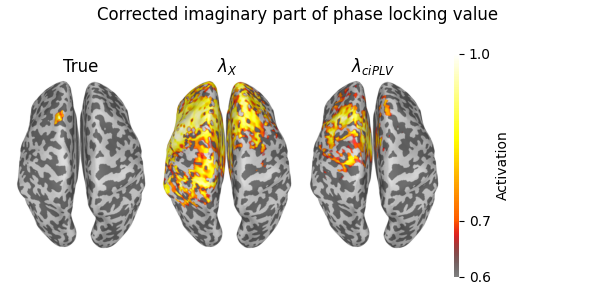
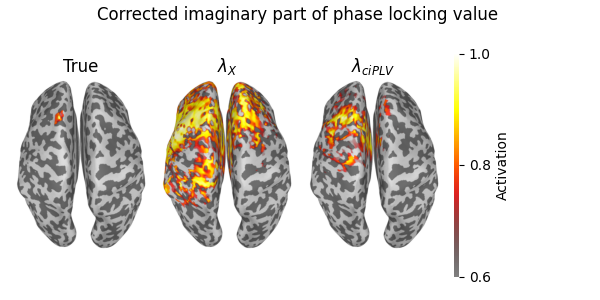
Make install

diff --git a/searchindex.js b/searchindex.js
@@ -1,1 +1,1 @@
[2 lines of base64/hex data omitted]

diff --git a/auto_paper_results/plot_illustrative_example.html b/auto_paper_results/plot_illustrative_example.html
@@ -269,7 +269,7 @@ in the paper</p>
 <span class="n">subject_dir</span> <span class="o">=</span> <span class="n">op</span><span class="o">.</span><span class="n">join</span><span class="p">(</span><span class="n">mne</span><span class="o">.</span><span class="n">datasets</span><span class="o">.</span><span class="n">sample</span><span class="o">.</span><span class="n">data_path</span><span class="p">(),</span> <span class="s1">&#39;subjects&#39;</span><span class="p">)</span>
 <span class="n">subject</span> <span class="o">=</span> <span class="s1">&#39;sample&#39;</span>
 
-<span class="n">clim</span> <span class="o">=</span> <span class="p">{</span><span class="s1">&#39;kind&#39;</span><span class="p">:</span> <span class="s1">&#39;value&#39;</span><span class="p">,</span> <span class="s1">&#39;lims&#39;</span><span class="p">:</span> <span class="p">[</span><span class="mf">0.5</span><span class="p">,</span> <span class="mf">0.6</span><span class="p">,</span> <span class="mi">1</span><span class="p">]}</span>
+<span class="n">clim</span> <span class="o">=</span> <span class="p">{</span><span class="s1">&#39;kind&#39;</span><span class="p">:</span> <span class="s1">&#39;value&#39;</span><span class="p">,</span> <span class="s1">&#39;lims&#39;</span><span class="p">:</span> <span class="p">[</span><span class="mf">0.5</span><span class="p">,</span> <span class="mf">0.75</span><span class="p">,</span> <span class="mi">1</span><span class="p">]}</span>
 <span class="n">roll</span> <span class="o">=</span> <span class="mi">0</span>
 
 <span class="n">views</span> <span class="o">=</span> <span class="s1">&#39;axial&#39;</span>
@@ -357,12 +357,15 @@ in the paper</p>
 <span class="n">plt</span><span class="o">.</span><span class="n">tight_layout</span><span class="p">()</span>
 </pre></div>
 </div>
-<img src="../_images/sphx_glr_plot_illustrative_example_001.png" srcset="../_images/sphx_glr_plot_illustrative_example_001.png" alt="Neural activity, True, $\lambda_{{X}}$, $\lambda_{{CPS}}$, $\lambda_{{wPLI}}$" class = "sphx-glr-single-img"/><p>Plot cross-power spectrum</p>
+<img src="../_images/sphx_glr_plot_illustrative_example_001.png" srcset="../_images/sphx_glr_plot_illustrative_example_001.png" alt="Neural activity, True, $\lambda_{{X}}$, $\lambda_{{CPS}}$, $\lambda_{{wPLI}}$" class = "sphx-glr-single-img"/><div class="sphx-glr-script-out highlight-none notranslate"><div class="highlight"><pre><span></span>Using pyvistaqt 3d backend.
+</pre></div>
+</div>
+<p>Plot cross-power spectrum</p>
 <div class="highlight-default notranslate"><div class="highlight"><pre><span></span><span class="n">cps_true</span> <span class="o">=</span> <span class="n">connectivity</span><span class="p">[</span><span class="s1">&#39;conn_true&#39;</span><span class="p">][:,</span> <span class="p">:,</span> <span class="mi">0</span><span class="p">]</span>
 <span class="n">cps_lam_cps</span> <span class="o">=</span> <span class="n">connectivity</span><span class="p">[</span><span class="s1">&#39;conn_lamC&#39;</span><span class="p">][:,</span> <span class="p">:,</span> <span class="mi">0</span><span class="p">]</span>
 <span class="n">cps_lamX</span> <span class="o">=</span> <span class="n">connectivity</span><span class="p">[</span><span class="s1">&#39;conn_lamX&#39;</span><span class="p">][:,</span> <span class="p">:,</span> <span class="mi">0</span><span class="p">]</span>
 
-<span class="n">clim</span> <span class="o">=</span> <span class="p">{</span><span class="s1">&#39;kind&#39;</span><span class="p">:</span> <span class="s1">&#39;value&#39;</span><span class="p">,</span> <span class="s1">&#39;lims&#39;</span><span class="p">:</span> <span class="p">[</span><span class="mf">0.20</span><span class="p">,</span> <span class="mf">0.25</span><span class="p">,</span> <span class="mi">1</span><span class="p">]}</span>
+<span class="n">clim</span> <span class="o">=</span> <span class="p">{</span><span class="s1">&#39;kind&#39;</span><span class="p">:</span> <span class="s1">&#39;value&#39;</span><span class="p">,</span> <span class="s1">&#39;lims&#39;</span><span class="p">:</span> <span class="p">[</span><span class="mf">0.20</span><span class="p">,</span> <span class="mf">0.6</span><span class="p">,</span> <span class="mi">1</span><span class="p">]}</span>
 
 <span class="c1"># Plot true cross-power spectrum</span>
 <span class="n">stc</span> <span class="o">=</span> <span class="n">mne</span><span class="o">.</span><span class="n">SourceEstimate</span><span class="p">(</span><span class="n">np</span><span class="o">.</span><span class="n">mean</span><span class="p">(</span><span class="n">cps_true</span><span class="p">,</span> <span class="n">axis</span><span class="o">=</span><span class="mi">0</span><span class="p">)</span> <span class="o">/</span>
@@ -434,7 +437,7 @@ in the paper</p>
 <span class="n">wpli_lam_wpli</span> <span class="o">=</span> <span class="n">connectivity</span><span class="p">[</span><span class="s1">&#39;conn_lamC&#39;</span><span class="p">][:,</span> <span class="p">:,</span> <span class="mi">3</span><span class="p">]</span>
 <span class="n">wpli_lamX</span> <span class="o">=</span> <span class="n">connectivity</span><span class="p">[</span><span class="s1">&#39;conn_lamX&#39;</span><span class="p">][:,</span> <span class="p">:,</span> <span class="mi">3</span><span class="p">]</span>
 
-<span class="n">clim</span> <span class="o">=</span> <span class="p">{</span><span class="s1">&#39;kind&#39;</span><span class="p">:</span> <span class="s1">&#39;value&#39;</span><span class="p">,</span> <span class="s1">&#39;lims&#39;</span><span class="p">:</span> <span class="p">[</span><span class="mf">0.60</span><span class="p">,</span> <span class="mf">0.7</span><span class="p">,</span> <span class="mi">1</span><span class="p">]}</span>
+<span class="n">clim</span> <span class="o">=</span> <span class="p">{</span><span class="s1">&#39;kind&#39;</span><span class="p">:</span> <span class="s1">&#39;value&#39;</span><span class="p">,</span> <span class="s1">&#39;lims&#39;</span><span class="p">:</span> <span class="p">[</span><span class="mf">0.60</span><span class="p">,</span> <span class="mf">0.8</span><span class="p">,</span> <span class="mi">1</span><span class="p">]}</span>
 
 <span class="c1"># Plot true wPLI</span>
 <span class="n">stc</span> <span class="o">=</span> <span class="n">mne</span><span class="o">.</span><span class="n">SourceEstimate</span><span class="p">(</span><span class="n">np</span><span class="o">.</span><span class="n">mean</span><span class="p">(</span><span class="n">wpli_true</span><span class="p">,</span> <span class="n">axis</span><span class="o">=</span><span class="mi">0</span><span class="p">)</span> <span class="o">/</span>
@@ -506,7 +509,7 @@ in the paper</p>
 <span class="n">imcoh_lam_imcoh</span> <span class="o">=</span> <span class="n">connectivity</span><span class="p">[</span><span class="s1">&#39;conn_lamC&#39;</span><span class="p">][:,</span> <span class="p">:,</span> <span class="mi">1</span><span class="p">]</span>
 <span class="n">imcoh_lamX</span> <span class="o">=</span> <span class="n">connectivity</span><span class="p">[</span><span class="s1">&#39;conn_lamX&#39;</span><span class="p">][:,</span> <span class="p">:,</span> <span class="mi">1</span><span class="p">]</span>
 
-<span class="n">clim</span> <span class="o">=</span> <span class="p">{</span><span class="s1">&#39;kind&#39;</span><span class="p">:</span> <span class="s1">&#39;value&#39;</span><span class="p">,</span> <span class="s1">&#39;lims&#39;</span><span class="p">:</span> <span class="p">[</span><span class="mf">0.60</span><span class="p">,</span> <span class="mf">0.7</span><span class="p">,</span> <span class="mi">1</span><span class="p">]}</span>
+<span class="n">clim</span> <span class="o">=</span> <span class="p">{</span><span class="s1">&#39;kind&#39;</span><span class="p">:</span> <span class="s1">&#39;value&#39;</span><span class="p">,</span> <span class="s1">&#39;lims&#39;</span><span class="p">:</span> <span class="p">[</span><span class="mf">0.60</span><span class="p">,</span> <span class="mf">0.8</span><span class="p">,</span> <span class="mi">1</span><span class="p">]}</span>
 
 <span class="c1"># Plot true imCOH</span>
 <span class="n">stc</span> <span class="o">=</span> <span class="n">mne</span><span class="o">.</span><span class="n">SourceEstimate</span><span class="p">(</span><span class="n">np</span><span class="o">.</span><span class="n">mean</span><span class="p">(</span><span class="n">imcoh_true</span><span class="p">,</span> <span class="n">axis</span><span class="o">=</span><span class="mi">0</span><span class="p">)</span> <span class="o">/</span>
@@ -578,7 +581,7 @@ in the paper</p>
 <span class="n">ciplv_lam_ciplv</span> <span class="o">=</span> <span class="n">connectivity</span><span class="p">[</span><span class="s1">&#39;conn_lamC&#39;</span><span class="p">][:,</span> <span class="p">:,</span> <span class="mi">1</span><span class="p">]</span>
 <span class="n">ciplv_lamX</span> <span class="o">=</span> <span class="n">connectivity</span><span class="p">[</span><span class="s1">&#39;conn_lamX&#39;</span><span class="p">][:,</span> <span class="p">:,</span> <span class="mi">1</span><span class="p">]</span>
 
-<span class="n">clim</span> <span class="o">=</span> <span class="p">{</span><span class="s1">&#39;kind&#39;</span><span class="p">:</span> <span class="s1">&#39;value&#39;</span><span class="p">,</span> <span class="s1">&#39;lims&#39;</span><span class="p">:</span> <span class="p">[</span><span class="mf">0.60</span><span class="p">,</span> <span class="mf">0.7</span><span class="p">,</span> <span class="mi">1</span><span class="p">]}</span>
+<span class="n">clim</span> <span class="o">=</span> <span class="p">{</span><span class="s1">&#39;kind&#39;</span><span class="p">:</span> <span class="s1">&#39;value&#39;</span><span class="p">,</span> <span class="s1">&#39;lims&#39;</span><span class="p">:</span> <span class="p">[</span><span class="mf">0.60</span><span class="p">,</span> <span class="mf">0.8</span><span class="p">,</span> <span class="mi">1</span><span class="p">]}</span>
 
 <span class="c1"># Plot true ciPLV</span>
 <span class="n">stc</span> <span class="o">=</span> <span class="n">mne</span><span class="o">.</span><span class="n">SourceEstimate</span><span class="p">(</span><span class="n">np</span><span class="o">.</span><span class="n">mean</span><span class="p">(</span><span class="n">ciplv_true</span><span class="p">,</span> <span class="n">axis</span><span class="o">=</span><span class="mi">0</span><span class="p">)</span> <span class="o">/</span>
@@ -645,7 +648,7 @@ in the paper</p>
 <span class="n">plt</span><span class="o">.</span><span class="n">tight_layout</span><span class="p">()</span>
 </pre></div>
 </div>
-<img src="../_images/sphx_glr_plot_illustrative_example_005.png" srcset="../_images/sphx_glr_plot_illustrative_example_005.png" alt="Corrected imaginary part of phase locking value , True, $\lambda_{{X}}$, $\lambda_{{ciPLV}}$" class = "sphx-glr-single-img"/><p class="sphx-glr-timing"><strong>Total running time of the script:</strong> ( 9 minutes  7.155 seconds)</p>
+<img src="../_images/sphx_glr_plot_illustrative_example_005.png" srcset="../_images/sphx_glr_plot_illustrative_example_005.png" alt="Corrected imaginary part of phase locking value , True, $\lambda_{{X}}$, $\lambda_{{ciPLV}}$" class = "sphx-glr-single-img"/><p class="sphx-glr-timing"><strong>Total running time of the script:</strong> ( 0 minutes  30.724 seconds)</p>
 <div class="sphx-glr-footer sphx-glr-footer-example docutils container" id="sphx-glr-download-auto-paper-results-plot-illustrative-example-py">
 <div class="sphx-glr-download sphx-glr-download-python docutils container">
 <p><a class="reference download internal" download="" href="../_downloads/873b38e0a4fc335c0de10ebcd0d0b9d2/plot_illustrative_example.py"><code class="xref download docutils literal notranslate"><span class="pre">Download</span> <span class="pre">Python</span> <span class="pre">source</span> <span class="pre">code:</span> <span class="pre">plot_illustrative_example.py</span></code></a></p>

diff --git a/auto_paper_results/plot_cluster_results.html b/auto_paper_results/plot_cluster_results.html
@@ -284,7 +284,7 @@ scale for the colorbar in each panel.</p>
 <span class="n">fig</span><span class="o">.</span><span class="n">colorbar</span><span class="p">(</span><span class="n">im3</span><span class="p">,</span> <span class="n">ax</span><span class="o">=</span><span class="n">ax</span><span class="p">[</span><span class="mi">2</span><span class="p">],</span> <span class="n">location</span><span class="o">=</span><span class="s1">&#39;right&#39;</span><span class="p">,</span> <span class="n">shrink</span><span class="o">=</span><span class="n">shrink</span><span class="p">)</span>
 </pre></div>
 </div>
-<img src="../_images/sphx_glr_plot_cluster_results_002.png" srcset="../_images/sphx_glr_plot_cluster_results_002.png" alt="plot cluster results" class = "sphx-glr-single-img"/><div class="sphx-glr-script-out highlight-none notranslate"><div class="highlight"><pre><span></span>&lt;matplotlib.colorbar.Colorbar object at 0x7fa134100b90&gt;
+<img src="../_images/sphx_glr_plot_cluster_results_002.png" srcset="../_images/sphx_glr_plot_cluster_results_002.png" alt="plot cluster results" class = "sphx-glr-single-img"/><div class="sphx-glr-script-out highlight-none notranslate"><div class="highlight"><pre><span></span>&lt;matplotlib.colorbar.Colorbar object at 0x7ffa9e463690&gt;
 </pre></div>
 </div>
 <p>Impact of the measurement noise on the relationship between the optimal
@@ -561,7 +561,7 @@ column), and ciPLV vs wPLI (right column)</p>
     <span class="n">ax</span><span class="p">[</span><span class="n">i_gamma</span><span class="p">,</span> <span class="mi">2</span><span class="p">]</span><span class="o">.</span><span class="n">set_ylabel</span><span class="p">(</span><span class="sa">r</span><span class="s1">&#39;log$_</span><span class="si">{10}</span><span class="s1">(\lambda_\mathbf</span><span class="si">{ciPLV}</span><span class="s1">)$&#39;</span><span class="p">)</span>
 </pre></div>
 </div>
-<img src="../_images/sphx_glr_plot_cluster_results_006.png" srcset="../_images/sphx_glr_plot_cluster_results_006.png" alt="0.1, 0.1, 0.1, 0.5, 0.5, 0.5, 0.9, 0.9, 0.9" class = "sphx-glr-single-img"/><p class="sphx-glr-timing"><strong>Total running time of the script:</strong> ( 0 minutes  54.149 seconds)</p>
+<img src="../_images/sphx_glr_plot_cluster_results_006.png" srcset="../_images/sphx_glr_plot_cluster_results_006.png" alt="0.1, 0.1, 0.1, 0.5, 0.5, 0.5, 0.9, 0.9, 0.9" class = "sphx-glr-single-img"/><p class="sphx-glr-timing"><strong>Total running time of the script:</strong> ( 0 minutes  4.238 seconds)</p>
 <div class="sphx-glr-footer sphx-glr-footer-example docutils container" id="sphx-glr-download-auto-paper-results-plot-cluster-results-py">
 <div class="sphx-glr-download sphx-glr-download-python docutils container">
 <p><a class="reference download internal" download="" href="../_downloads/f7542143f43cbd967c3e5fdf02727ca7/plot_cluster_results.py"><code class="xref download docutils literal notranslate"><span class="pre">Download</span> <span class="pre">Python</span> <span class="pre">source</span> <span class="pre">code:</span> <span class="pre">plot_cluster_results.py</span></code></a></p>

diff --git a/auto_paper_results/sg_execution_times.html b/auto_paper_results/sg_execution_times.html
@@ -98,18 +98,18 @@
       
   <section id="computation-times">
 <span id="sphx-glr-auto-paper-results-sg-execution-times"></span><h1>Computation times<a class="headerlink" href="#computation-times" title="Permalink to this heading">¶</a></h1>
-<p><strong>10:01.303</strong> total execution time for <strong>auto_paper_results</strong> files:</p>
+<p><strong>00:30.724</strong> total execution time for <strong>auto_paper_results</strong> files:</p>
 <table class="docutils align-default">
 <tbody>
 <tr class="row-odd"><td><p><a class="reference internal" href="plot_illustrative_example.html#sphx-glr-auto-paper-results-plot-illustrative-example-py"><span class="std std-ref">Reproducing plots of the illustrative example of the paper</span></a> (<code class="docutils literal notranslate"><span class="pre">plot_illustrative_example.py</span></code>)</p></td>
-<td><p>09:07.155</p></td>
+<td><p>00:30.724</p></td>
 <td><p>0.0 MB</p></td>
 </tr>
-<tr class="row-even"><td><p><a class="reference internal" href="plot_cluster_results.html#sphx-glr-auto-paper-results-plot-cluster-results-py"><span class="std std-ref">Reproducing plots of the paper related to the 180,000 simulated MEG data</span></a> (<code class="docutils literal notranslate"><span class="pre">plot_cluster_results.py</span></code>)</p></td>
-<td><p>00:54.149</p></td>
+<tr class="row-even"><td><p><a class="reference internal" href="funcs_single_sim.html#sphx-glr-auto-paper-results-funcs-single-sim-py"><span class="std std-ref">Main functions</span></a> (<code class="docutils literal notranslate"><span class="pre">funcs_single_sim.py</span></code>)</p></td>
+<td><p>00:00.000</p></td>
 <td><p>0.0 MB</p></td>
 </tr>
-<tr class="row-odd"><td><p><a class="reference internal" href="funcs_single_sim.html#sphx-glr-auto-paper-results-funcs-single-sim-py"><span class="std std-ref">Main functions</span></a> (<code class="docutils literal notranslate"><span class="pre">funcs_single_sim.py</span></code>)</p></td>
+<tr class="row-odd"><td><p><a class="reference internal" href="plot_cluster_results.html#sphx-glr-auto-paper-results-plot-cluster-results-py"><span class="std std-ref">Reproducing plots of the paper related to the 180,000 simulated MEG data</span></a> (<code class="docutils literal notranslate"><span class="pre">plot_cluster_results.py</span></code>)</p></td>
 <td><p>00:00.000</p></td>
 <td><p>0.0 MB</p></td>
 </tr>

diff --git a/_downloads/873b38e0a4fc335c0de10ebcd0d0b9d2/plot_illustrative_example.py b/_downloads/873b38e0a4fc335c0de10ebcd0d0b9d2/plot_illustrative_example.py
@@ -174,7 +174,7 @@ hemi = 'both'
 subject_dir = op.join(mne.datasets.sample.data_path(), 'subjects')
 subject = 'sample'
 
-clim = {'kind': 'value', 'lims': [0.5, 0.6, 1]}
+clim = {'kind': 'value', 'lims': [0.5, 0.75, 1]}
 roll = 0
 
 views = 'axial'
@@ -267,7 +267,7 @@ cps_true = connectivity['conn_true'][:, :, 0]
 cps_lam_cps = connectivity['conn_lamC'][:, :, 0]
 cps_lamX = connectivity['conn_lamX'][:, :, 0]
 
-clim = {'kind': 'value', 'lims': [0.20, 0.25, 1]}
+clim = {'kind': 'value', 'lims': [0.20, 0.6, 1]}
 
 # Plot true cross-power spectrum
 stc = mne.SourceEstimate(np.mean(cps_true, axis=0) /
@@ -340,7 +340,7 @@ wpli_true = connectivity['conn_true'][:, :, 3]
 wpli_lam_wpli = connectivity['conn_lamC'][:, :, 3]
 wpli_lamX = connectivity['conn_lamX'][:, :, 3]
 
-clim = {'kind': 'value', 'lims': [0.60, 0.7, 1]}
+clim = {'kind': 'value', 'lims': [0.60, 0.8, 1]}
 
 # Plot true wPLI
 stc = mne.SourceEstimate(np.mean(wpli_true, axis=0) /
@@ -412,7 +412,7 @@ imcoh_true = connectivity['conn_true'][:, :, 1]
 imcoh_lam_imcoh = connectivity['conn_lamC'][:, :, 1]
 imcoh_lamX = connectivity['conn_lamX'][:, :, 1]
 
-clim = {'kind': 'value', 'lims': [0.60, 0.7, 1]}
+clim = {'kind': 'value', 'lims': [0.60, 0.8, 1]}
 
 # Plot true imCOH
 stc = mne.SourceEstimate(np.mean(imcoh_true, axis=0) /
@@ -484,7 +484,7 @@ ciplv_true = connectivity['conn_true'][:, :, 1]
 ciplv_lam_ciplv = connectivity['conn_lamC'][:, :, 1]
 ciplv_lamX = connectivity['conn_lamX'][:, :, 1]
 
-clim = {'kind': 'value', 'lims': [0.60, 0.7, 1]}
+clim = {'kind': 'value', 'lims': [0.60, 0.8, 1]}
 
 # Plot true ciPLV
 stc = mne.SourceEstimate(np.mean(ciplv_true, axis=0) /
